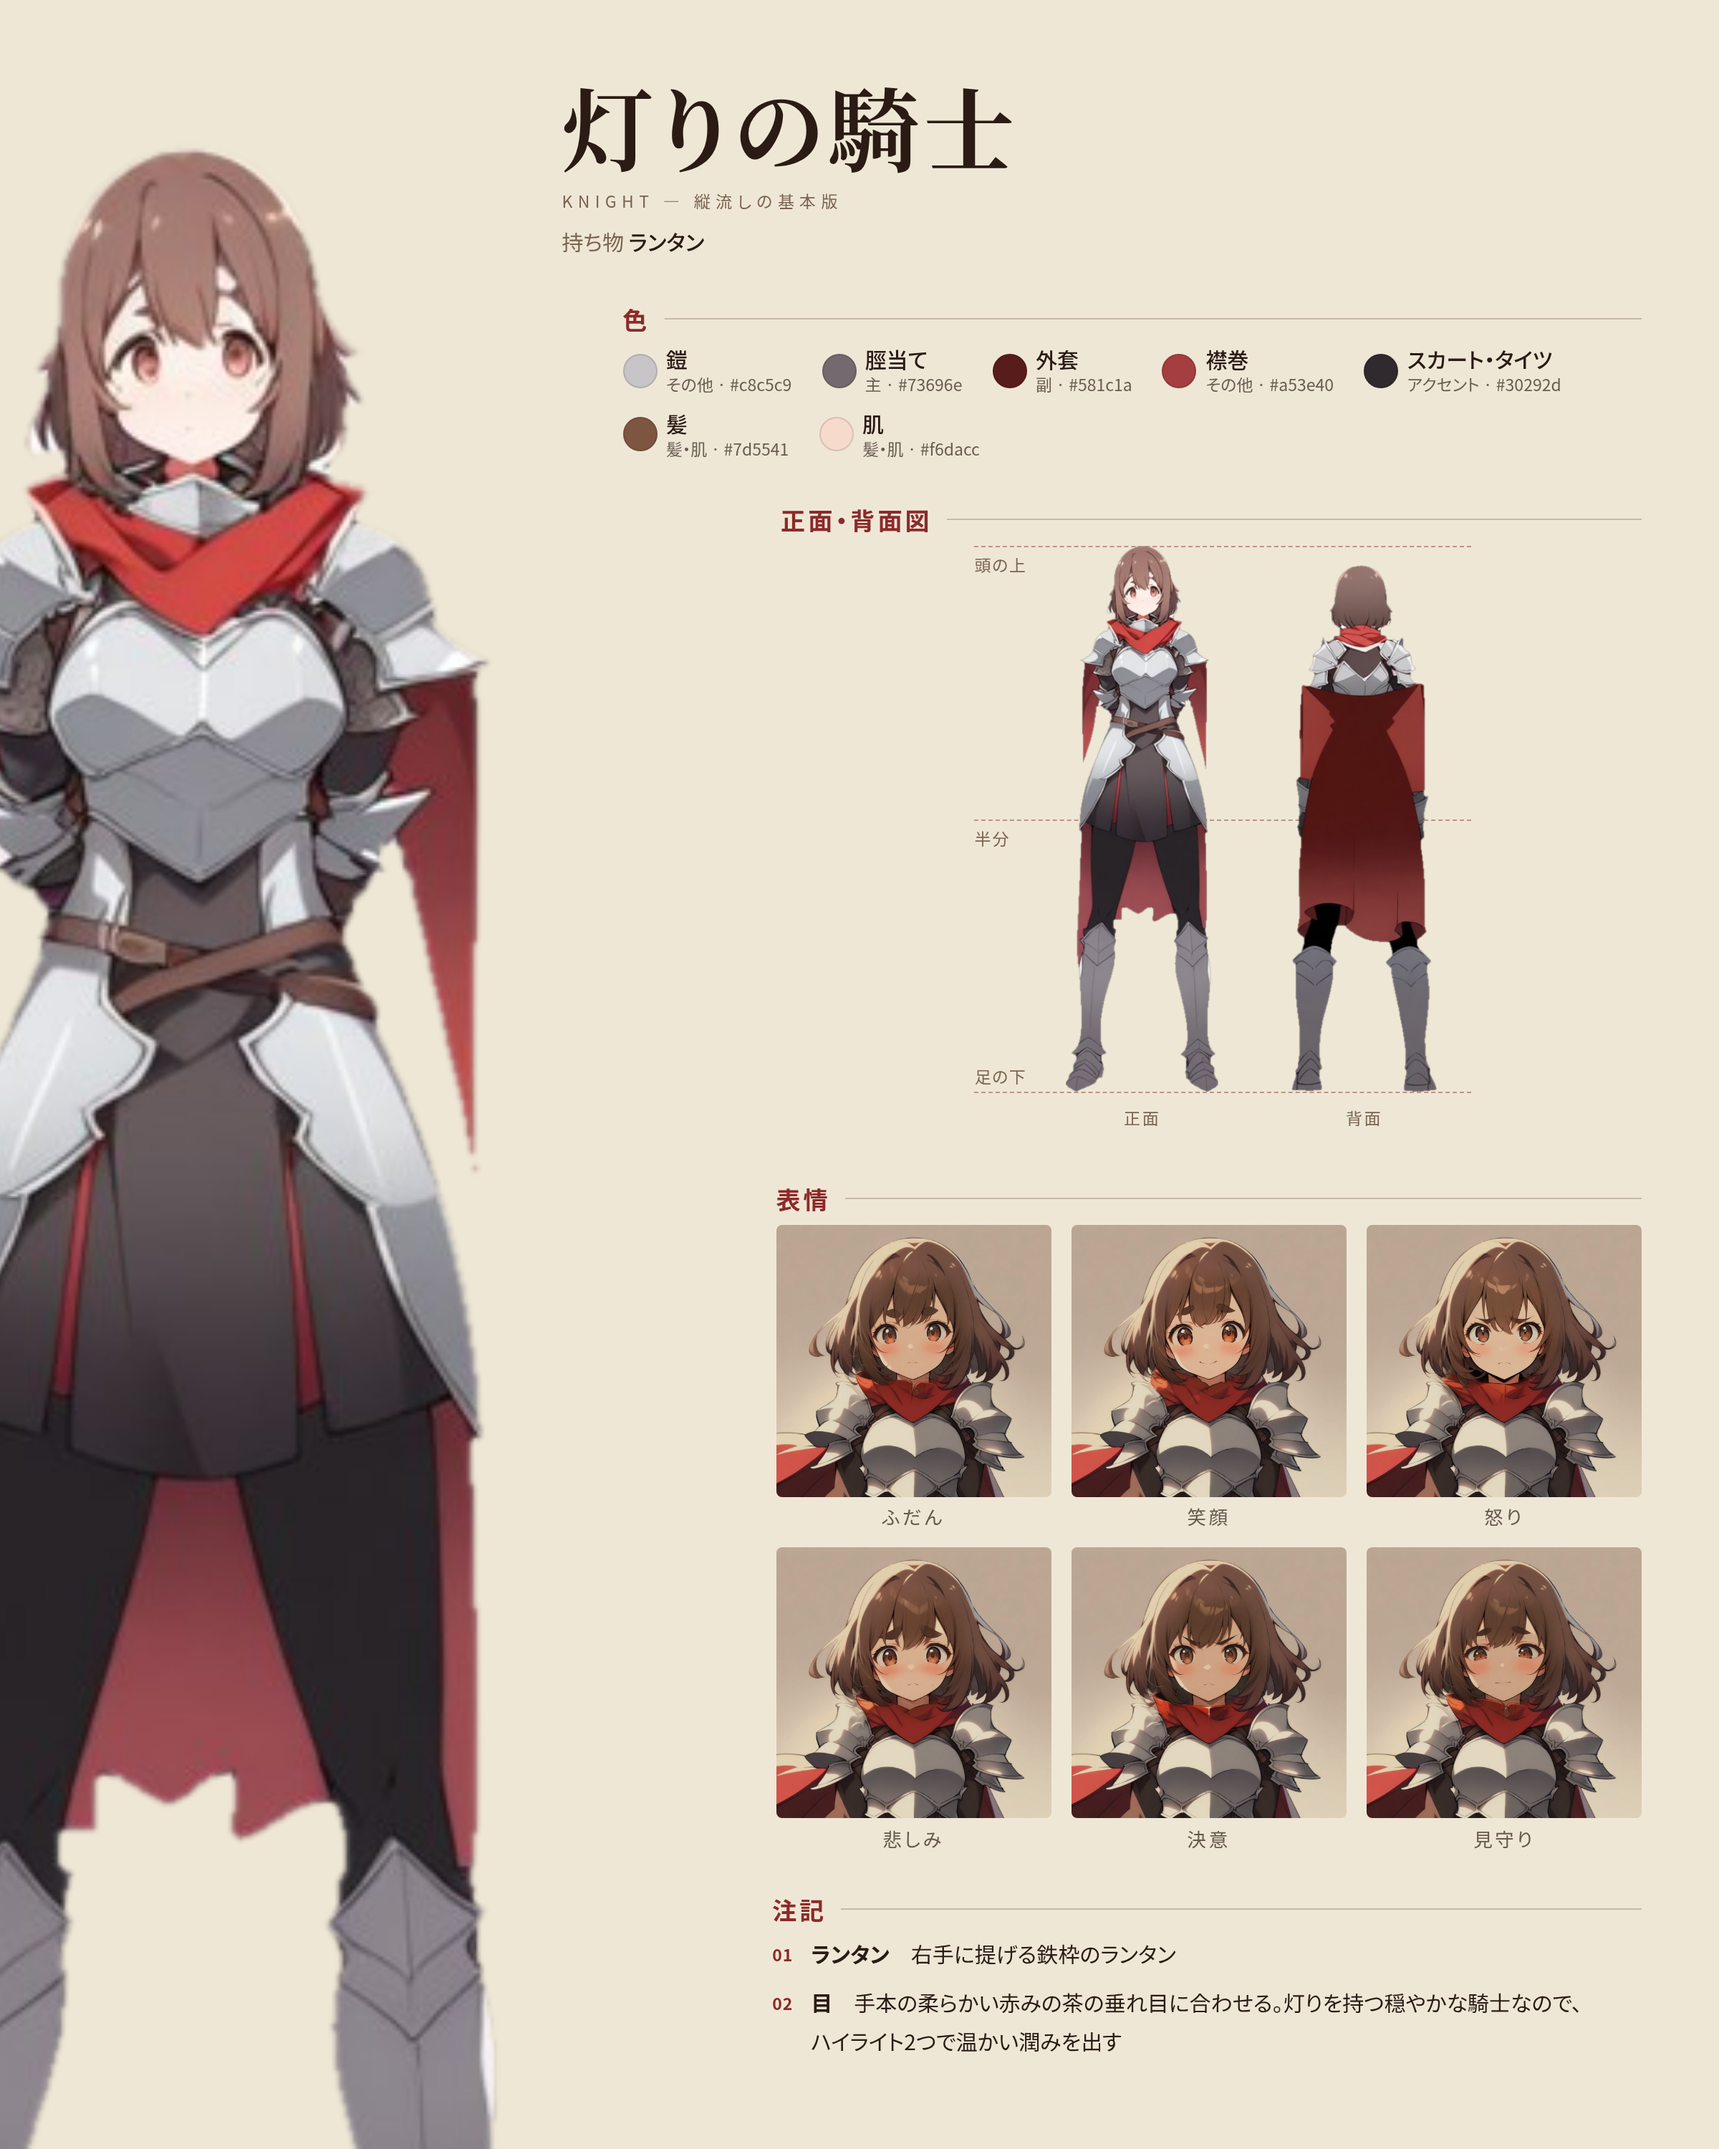
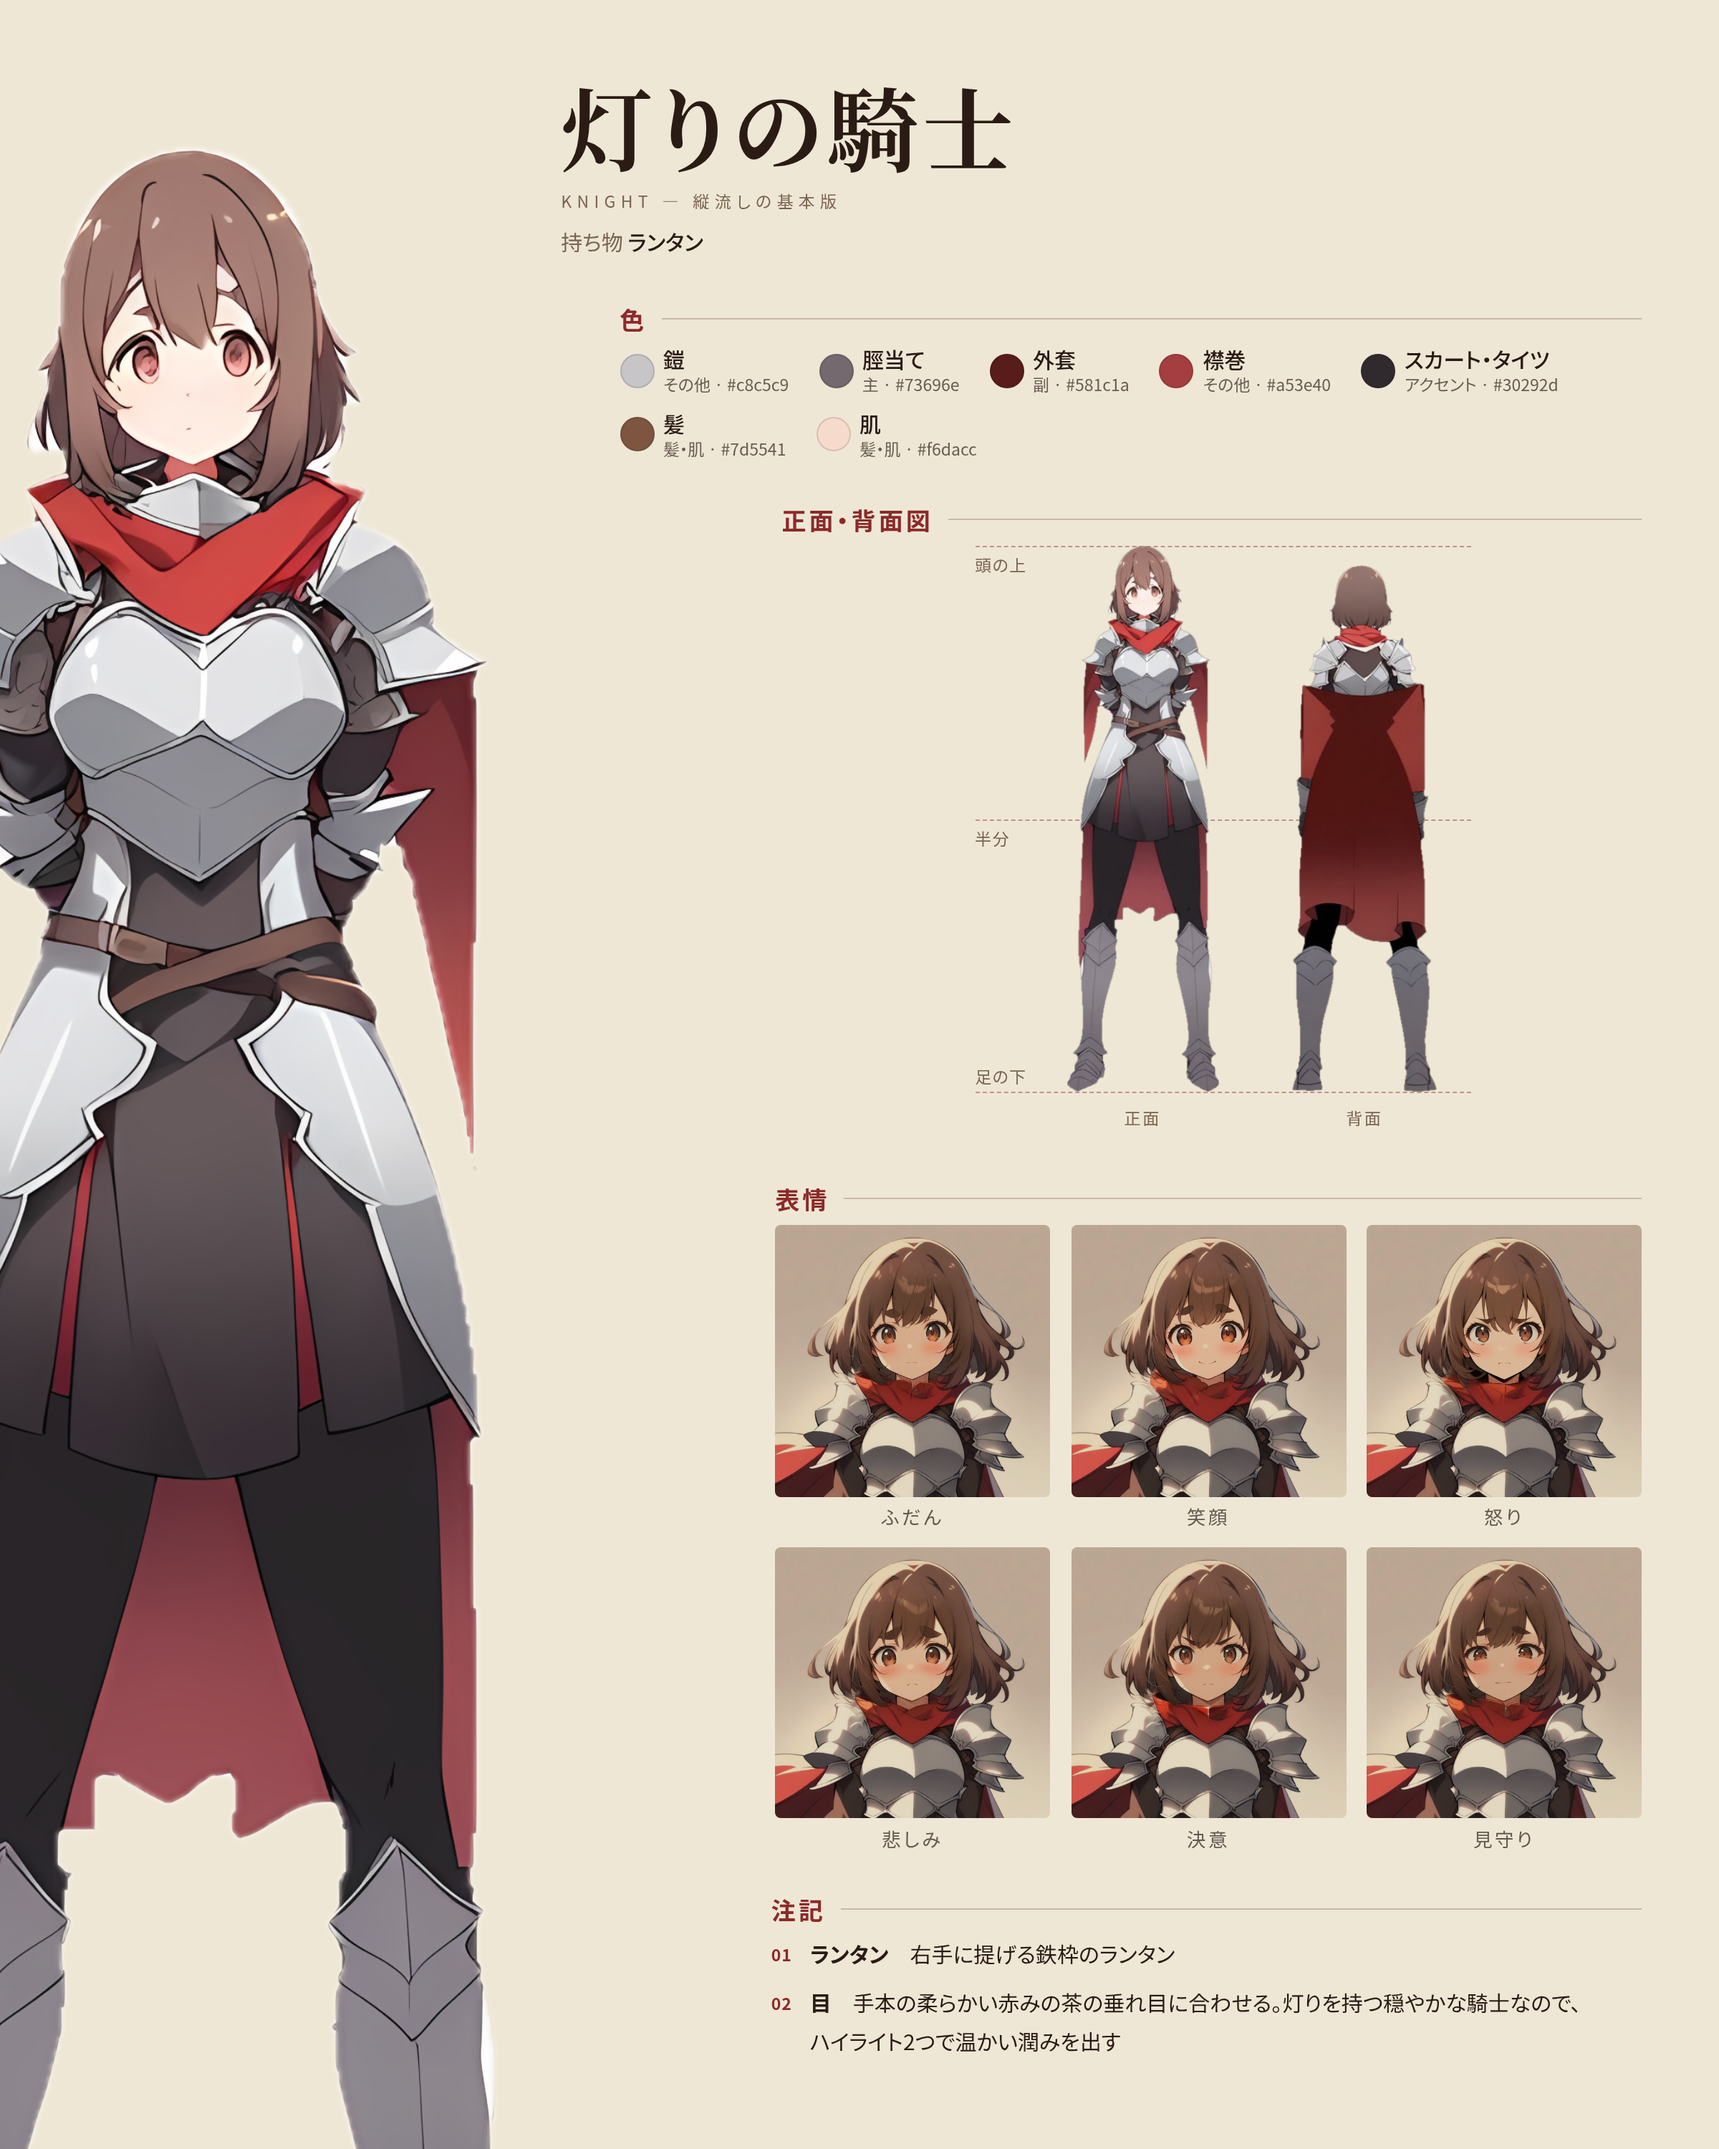
設定画集の小さい四面図の主役を AI の拡大で4倍にする
騎士の四面図の正面は幅220画素ほどで、主役の大きさに引き伸ばすとぼけて縁がぎざぎざになった。
場面ごと描いた色の絵（城の中）は抜けず服も違うので、主役には使わない。

Claude-Session: https://claude.ai/code/session_01SckJ2FC4PhB88prMhjDTEV

diff --git a/tools/gen/sheetlayout.py b/tools/gen/sheetlayout.py
@@ -63,6 +63,26 @@ def _figures(c):
             for n, (a, b) in zip(names, spans)]
 
 
+def _sharp(c, fig):
+    """小さい四面図の人物を AI の拡大（Real-ESRGAN のアニメ絵用）で4倍にする。そのまま引き伸ばすと、
+    騎士（幅220画素）でぼけて縁がぎざぎざになった。拡大した絵は四面図の隣に置き、2回目からは読む"""
+    from PIL import Image
+    p = bible.ROOT / c["images"]["turnaround"]
+    out = Path(str(p) + ".hero.png")
+    if out.exists() and out.stat().st_mtime >= p.stat().st_mtime:
+        return Image.open(out)
+    try:
+        import upscale
+        bg = Image.new("RGB", fig.size, "white")
+        bg.paste(fig, mask=fig.getchannel("A"))
+        big = upscale.x4(bg).convert("RGBA")
+        big.putalpha(fig.getchannel("A").resize(big.size, Image.LANCZOS))
+    except Exception:
+        return fig
+    big.save(out)
+    return big
+
+
 def _hero(c, figs):
     """主役の立ち姿: 背景を透かせるポーズの絵で最も大きいもの、無ければ四面図の正面。
     場面つきの絵（背景を透かせない）は地の上に立たせられないので使わない"""
@@ -72,15 +92,18 @@ def _hero(c, figs):
         cut = _cut_rgba(im)
         if cut.getchannel("A").getextrema()[0] == 0:   # 透けた所がある = 背景を外せた
             return cut.crop(cut.getchannel("A").getbbox()), "立ち姿"
-    # 四面図の正面は小さく（騎士で高さ300画素ほど）、大きく置くとぼける。1人だけを大きく描いた色の絵があれば先に使う
-    if figs and figs[0][1].height >= 700:
-        return figs[0][1], "基準の正面"
+    # 四面図の正面は小さく（騎士で幅220画素ほど）、大きく置くとぼけて縁がぎざぎざになった。
+    # 1人だけを大きく描いた色の絵があり、そちらの人物が大きければ先に使う
     p = c.get("images", {}).get("color")
     if p and (bible.ROOT / p).exists():
         cut = _cut_rgba(Image.open(bible.ROOT / p), bible.ROOT / p)
         bb = cut.getchannel("A").getbbox()
-        if bb:
+        scene = (cut.getchannel("A").point(lambda v: v > 127 and 255).histogram()[255] / (cut.width * cut.height)) > 0.6
+        # 場面ごと描いた絵（城の中など）は抜けず、服も四面図と違うことがあるので主役にしない
+        if bb and not scene and (not figs or (bb[3] - bb[1]) > figs[0][1].height * 1.2):
             return cut.crop(bb), "色の基準"
+    if figs and figs[0][1].height < 1200:
+        return _sharp(c, figs[0][1]), "基準の正面"
     if figs:
         return figs[0][1], "基準の正面"
     return None, ""
